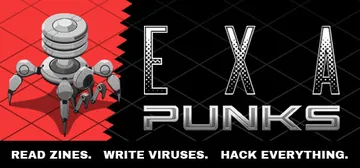
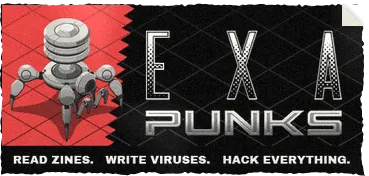
feat: Weather the stickers and keep their stacking on hover
Covers are now printed paper: ragged edges, a faded print with grain
and uneven light, an occasional crease and a peeled corner on one of
the four sides. Logos are vinyl die-cuts with an uneven off-white
border. Both are baked into the WebP images, so shadows follow their
shape with drop-shadow instead of a rectangular box-shadow. Hover no
longer lifts a sticker above its neighbors, the tape strip is gone,
and Katamari shows the Prince as a die-cut character.

diff --git a/src/lib/site.ts b/src/lib/site.ts
@@ -253,36 +253,36 @@ export const favorites: Favorite[] = [
 ];
 
 export const stickers: Sticker[] = [
-	{ name: 'grim fandango', url: buildWikipediaURL('Grim Fandango'), imageURL: '/images/stickers/grim-fandango.webp', width: 270, height: 360 },
-	{ name: 'futurama', url: buildWikipediaURL('Futurama'), imageURL: '/images/stickers/futurama.webp', width: 436, height: 153, isDieCut: true },
-	{ name: 'pulp fiction', url: buildWikipediaURL('Pulp Fiction'), imageURL: '/images/stickers/pulp-fiction.webp', width: 244, height: 360 },
-	{ name: 'abbey road', url: buildWikipediaURL('Abbey Road'), imageURL: '/images/stickers/abbey-road.webp', width: 360, height: 360 },
-	{ name: 'mr. robot', url: buildWikipediaURL('Mr. Robot'), imageURL: '/images/stickers/mr-robot.webp', width: 424, height: 87, isDieCut: true },
-	{ name: 'the catcher in the rye', url: buildWikipediaURL('The Catcher in the Rye'), imageURL: '/images/stickers/the-catcher-in-the-rye.webp', width: 310, height: 360 },
-	{ name: 'the curse of monkey island', url: buildWikipediaURL('The Curse of Monkey Island'), imageURL: '/images/stickers/curse-of-monkey-island.webp', width: 269, height: 360 },
-	{ name: 'parasite', url: buildWikipediaURL('Parasite (2019 film)'), imageURL: '/images/stickers/parasite.webp', width: 252, height: 360 },
-	{ name: 'the simpsons', url: buildWikipediaURL('The Simpsons'), imageURL: '/images/stickers/the-simpsons.webp', width: 444, height: 208, isDieCut: true },
-	{ name: 'back to black', url: buildWikipediaURL('Back to Black'), imageURL: '/images/stickers/back-to-black.webp', width: 360, height: 360 },
-	{ name: 'exapunks', url: buildWikipediaURL('Exapunks'), imageURL: '/images/stickers/exapunks.webp', width: 360, height: 168 },
-	{ name: 'whiplash', url: buildWikipediaURL('Whiplash (2014 film)'), imageURL: '/images/stickers/whiplash.webp', width: 243, height: 360 },
-	{ name: 'friends', url: buildWikipediaURL('Friends'), imageURL: '/images/stickers/friends.webp', width: 444, height: 94, isDieCut: true },
-	{ name: 'i love katamari', url: buildWikipediaURL('I Love Katamari'), imageURL: '/images/stickers/i-love-katamari.webp', width: 360, height: 360 },
-	{ name: 'burning', url: buildWikipediaURL('Burning (2018 film)'), imageURL: '/images/stickers/burning.webp', width: 252, height: 360 },
-	{ name: 'rick and morty', url: buildWikipediaURL('Rick and Morty'), imageURL: '/images/stickers/rick-and-morty.webp', width: 444, height: 153, isDieCut: true },
-	{ name: 'la vie devant soi', url: buildWikipediaURL('The Life Before Us'), imageURL: '/images/stickers/the-life-before-us.webp', width: 248, height: 360 },
-	{ name: 'thimbleweed park', url: buildWikipediaURL('Thimbleweed Park'), imageURL: '/images/stickers/thimbleweed-park.webp', width: 301, height: 360 },
-	{ name: 'face/off', url: buildWikipediaURL('Face/Off'), imageURL: '/images/stickers/face-off.webp', width: 241, height: 360 },
-	{ name: 'evangelion', url: buildWikipediaURL('Neon Genesis Evangelion'), imageURL: '/images/stickers/evangelion.webp', width: 360, height: 132 },
-	{ name: 'juno', url: buildWikipediaURL('Juno (Remi Wolf album)'), imageURL: '/images/stickers/juno.webp', width: 360, height: 360 },
-	{ name: "bob's burgers", url: buildWikipediaURL("Bob's Burgers"), imageURL: '/images/stickers/bobs-burgers.webp', width: 444, height: 157, isDieCut: true },
-	{ name: 'my mister', url: buildWikipediaURL('My Mister'), imageURL: '/images/stickers/my-mister.webp', width: 360, height: 248 },
-	{ name: 'sonic adventure', url: buildWikipediaURL('Sonic Adventure'), imageURL: '/images/stickers/sonic-adventure.webp', width: 360, height: 356 },
-	{ name: 'garden state', url: buildWikipediaURL('Garden State (film)'), imageURL: '/images/stickers/garden-state.webp', width: 243, height: 360 },
-	{ name: 'the office', url: buildWikipediaURL('The Office (American TV series)'), imageURL: '/images/stickers/the-office.webp', width: 444, height: 93, isDieCut: true },
-	{ name: 'ftl', url: buildWikipediaURL('FTL: Faster Than Light'), imageURL: '/images/stickers/ftl.webp', width: 360, height: 118 },
-	{ name: 'matchstick men', url: buildWikipediaURL('Matchstick Men'), imageURL: '/images/stickers/matchstick-men.webp', width: 243, height: 360 },
-	{ name: 'star trek: lower decks', url: buildWikipediaURL('Star Trek: Lower Decks'), imageURL: '/images/stickers/lower-decks.webp', width: 428, height: 112, isDieCut: true },
-	{ name: 'arcane', url: buildWikipediaURL('Arcane (TV series)'), imageURL: '/images/stickers/arcane.webp', width: 426, height: 96, isDieCut: true }
+	{ name: 'grim fandango', url: buildWikipediaURL('Grim Fandango'), imageURL: '/images/stickers/grim-fandango.webp', width: 277, height: 370 },
+	{ name: 'futurama', url: buildWikipediaURL('Futurama'), imageURL: '/images/stickers/futurama.webp', width: 431, height: 151, isDieCut: true },
+	{ name: 'pulp fiction', url: buildWikipediaURL('Pulp Fiction'), imageURL: '/images/stickers/pulp-fiction.webp', width: 251, height: 369 },
+	{ name: 'abbey road', url: buildWikipediaURL('Abbey Road'), imageURL: '/images/stickers/abbey-road.webp', width: 367, height: 370 },
+	{ name: 'mr. robot', url: buildWikipediaURL('Mr. Robot'), imageURL: '/images/stickers/mr-robot.webp', width: 420, height: 86, isDieCut: true },
+	{ name: 'the catcher in the rye', url: buildWikipediaURL('The Catcher in the Rye'), imageURL: '/images/stickers/the-catcher-in-the-rye.webp', width: 315, height: 366 },
+	{ name: 'the curse of monkey island', url: buildWikipediaURL('The Curse of Monkey Island'), imageURL: '/images/stickers/curse-of-monkey-island.webp', width: 275, height: 366 },
+	{ name: 'parasite', url: buildWikipediaURL('Parasite (2019 film)'), imageURL: '/images/stickers/parasite.webp', width: 262, height: 368 },
+	{ name: 'the simpsons', url: buildWikipediaURL('The Simpsons'), imageURL: '/images/stickers/the-simpsons.webp', width: 440, height: 206, isDieCut: true },
+	{ name: 'back to black', url: buildWikipediaURL('Back to Black'), imageURL: '/images/stickers/back-to-black.webp', width: 369, height: 369 },
+	{ name: 'exapunks', url: buildWikipediaURL('Exapunks'), imageURL: '/images/stickers/exapunks.webp', width: 369, height: 176 },
+	{ name: 'whiplash', url: buildWikipediaURL('Whiplash (2014 film)'), imageURL: '/images/stickers/whiplash.webp', width: 253, height: 368 },
+	{ name: 'friends', url: buildWikipediaURL('Friends'), imageURL: '/images/stickers/friends.webp', width: 440, height: 91, isDieCut: true },
+	{ name: 'i love katamari', url: buildWikipediaURL('I Love Katamari'), imageURL: '/images/stickers/i-love-katamari.webp', width: 274, height: 408, isDieCut: true },
+	{ name: 'burning', url: buildWikipediaURL('Burning (2018 film)'), imageURL: '/images/stickers/burning.webp', width: 257, height: 365 },
+	{ name: 'rick and morty', url: buildWikipediaURL('Rick and Morty'), imageURL: '/images/stickers/rick-and-morty.webp', width: 440, height: 151, isDieCut: true },
+	{ name: 'la vie devant soi', url: buildWikipediaURL('The Life Before Us'), imageURL: '/images/stickers/the-life-before-us.webp', width: 255, height: 365 },
+	{ name: 'thimbleweed park', url: buildWikipediaURL('Thimbleweed Park'), imageURL: '/images/stickers/thimbleweed-park.webp', width: 306, height: 365 },
+	{ name: 'face/off', url: buildWikipediaURL('Face/Off'), imageURL: '/images/stickers/face-off.webp', width: 251, height: 369 },
+	{ name: 'evangelion', url: buildWikipediaURL('Neon Genesis Evangelion'), imageURL: '/images/stickers/evangelion.webp', width: 368, height: 142 },
+	{ name: 'juno', url: buildWikipediaURL('Juno (Remi Wolf album)'), imageURL: '/images/stickers/juno.webp', width: 367, height: 367 },
+	{ name: "bob's burgers", url: buildWikipediaURL("Bob's Burgers"), imageURL: '/images/stickers/bobs-burgers.webp', width: 443, height: 156, isDieCut: true },
+	{ name: 'my mister', url: buildWikipediaURL('My Mister'), imageURL: '/images/stickers/my-mister.webp', width: 370, height: 255 },
+	{ name: 'sonic adventure', url: buildWikipediaURL('Sonic Adventure'), imageURL: '/images/stickers/sonic-adventure.webp', width: 366, height: 361 },
+	{ name: 'garden state', url: buildWikipediaURL('Garden State (film)'), imageURL: '/images/stickers/garden-state.webp', width: 253, height: 368 },
+	{ name: 'the office', url: buildWikipediaURL('The Office (American TV series)'), imageURL: '/images/stickers/the-office.webp', width: 441, height: 90, isDieCut: true },
+	{ name: 'ftl', url: buildWikipediaURL('FTL: Faster Than Light'), imageURL: '/images/stickers/ftl.webp', width: 366, height: 123 },
+	{ name: 'matchstick men', url: buildWikipediaURL('Matchstick Men'), imageURL: '/images/stickers/matchstick-men.webp', width: 247, height: 364 },
+	{ name: 'star trek: lower decks', url: buildWikipediaURL('Star Trek: Lower Decks'), imageURL: '/images/stickers/lower-decks.webp', width: 425, height: 110, isDieCut: true },
+	{ name: 'arcane', url: buildWikipediaURL('Arcane (TV series)'), imageURL: '/images/stickers/arcane.webp', width: 422, height: 96, isDieCut: true }
 ];
 
 export const despised = ['conservatives', 'windows®', 'bloat', 'bothsidesism', 'yellow journalism'];

diff --git a/src/lib/components/StickerWall.svelte b/src/lib/components/StickerWall.svelte
@@ -59,8 +59,7 @@
 
 	li:hover,
 	li:focus-within {
-		z-index: 20 !important;
-		transform: translateY(calc(var(--lift) * var(--scale))) rotate(0deg) scale(1.08);
+		transform: translateY(calc(var(--lift) * var(--scale))) rotate(var(--tilt)) scale(1.03);
 	}
 
 	@media (prefers-reduced-motion: reduce) {
@@ -79,26 +78,11 @@
 		display: block;
 		width: 100%;
 		height: auto;
-		box-shadow:
-			0 1px 2px rgb(0 0 0 / 0.3),
-			0 8px 18px rgb(0 0 0 / 0.18);
+		filter: drop-shadow(0 1px 1px rgb(0 0 0 / 0.35)) drop-shadow(0 6px 10px rgb(0 0 0 / 0.16));
 	}
 
-	li:not(.die-cut)::before {
-		content: '';
-		position: absolute;
-		top: -9px;
-		left: 50%;
-		z-index: 1;
-		width: 46%;
-		height: 20px;
-		background: rgb(255 255 255 / 0.55);
-		box-shadow: 0 1px 2px rgb(0 0 0 / 0.15);
-		transform: translateX(-50%) rotate(calc(var(--tilt) * -0.8));
-	}
 
 	.die-cut img {
-		box-shadow: none;
-		filter: drop-shadow(0 2px 3px rgb(0 0 0 / 0.3));
+		filter: drop-shadow(0 1px 1px rgb(0 0 0 / 0.3)) drop-shadow(0 2px 4px rgb(0 0 0 / 0.14));
 	}
 </style>
